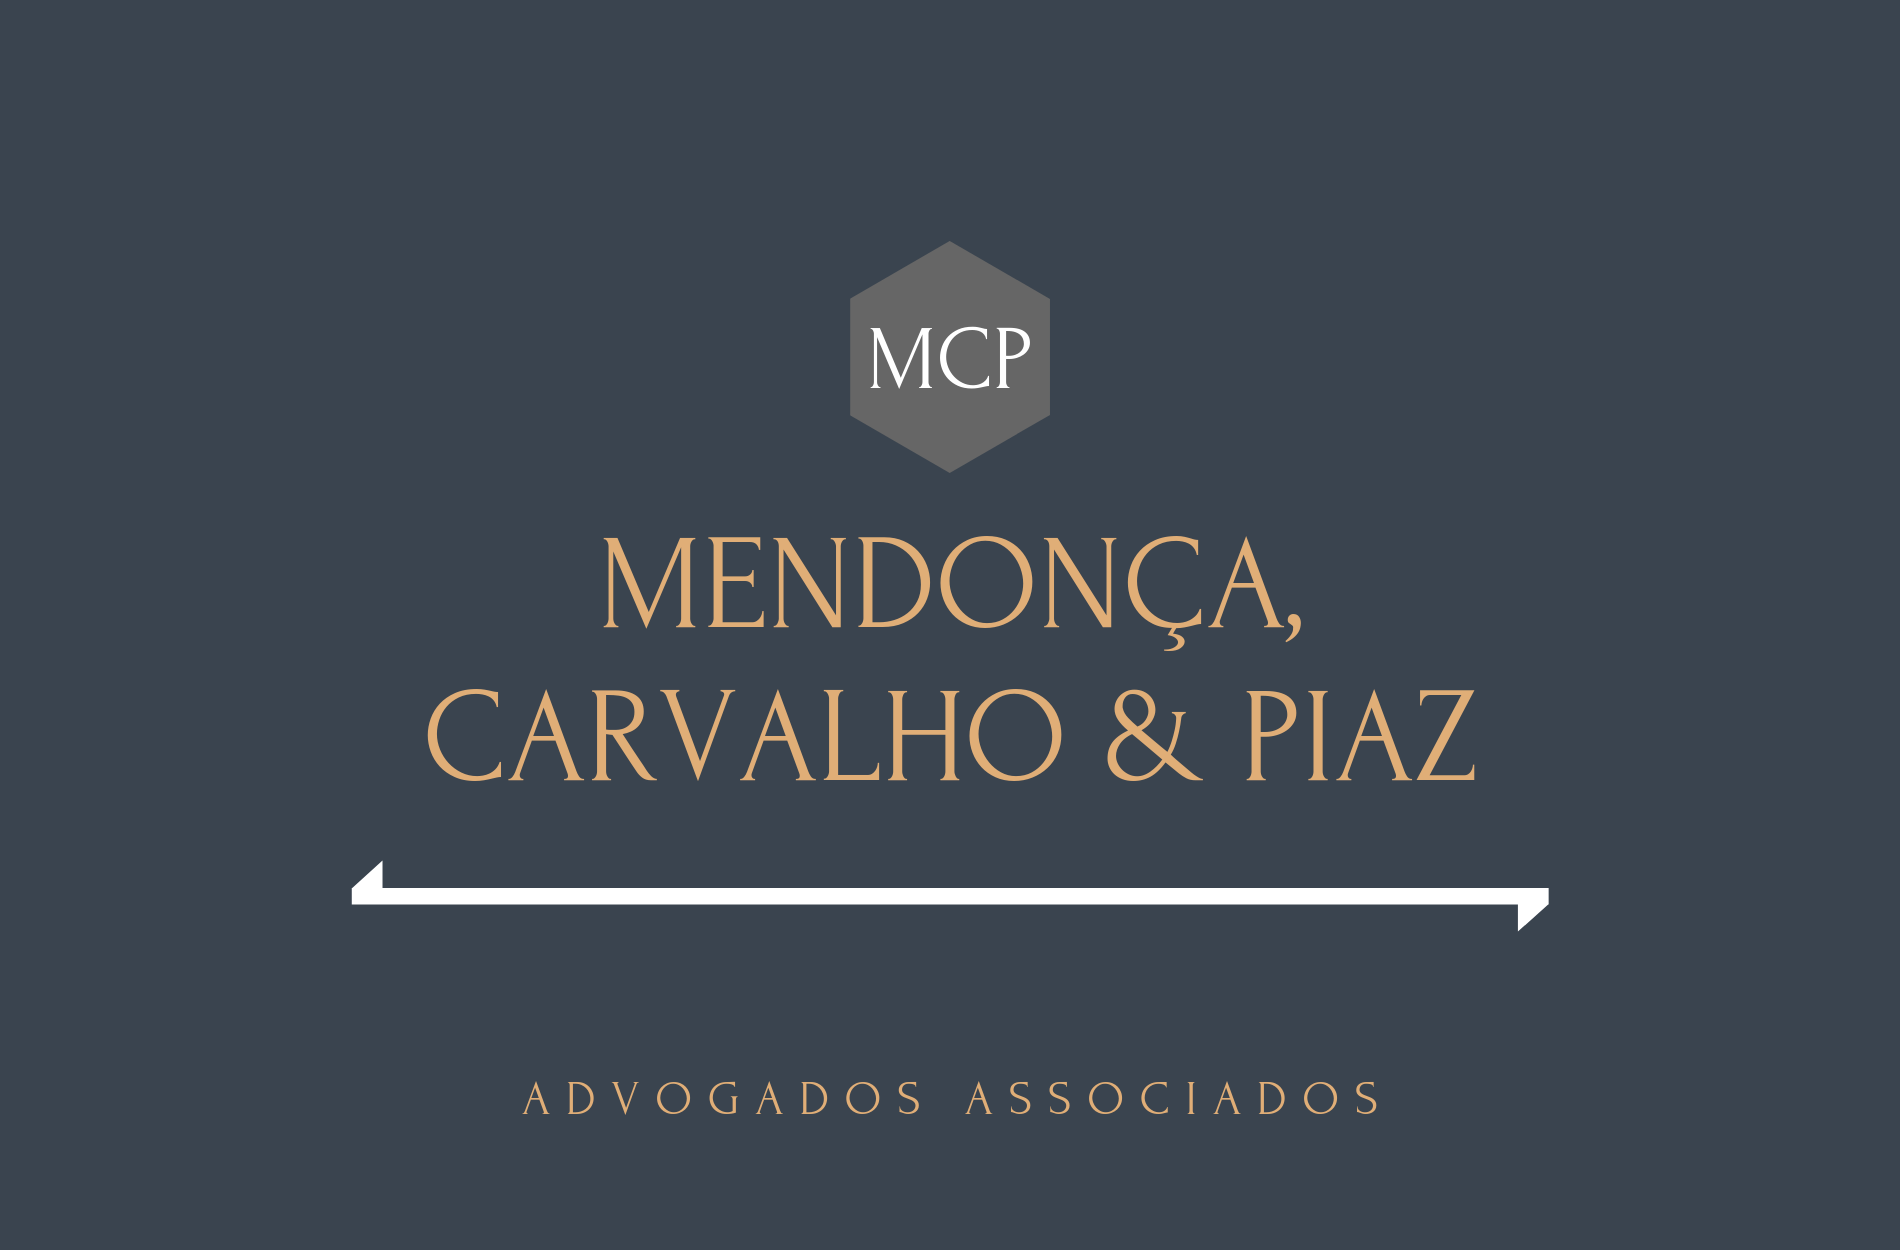
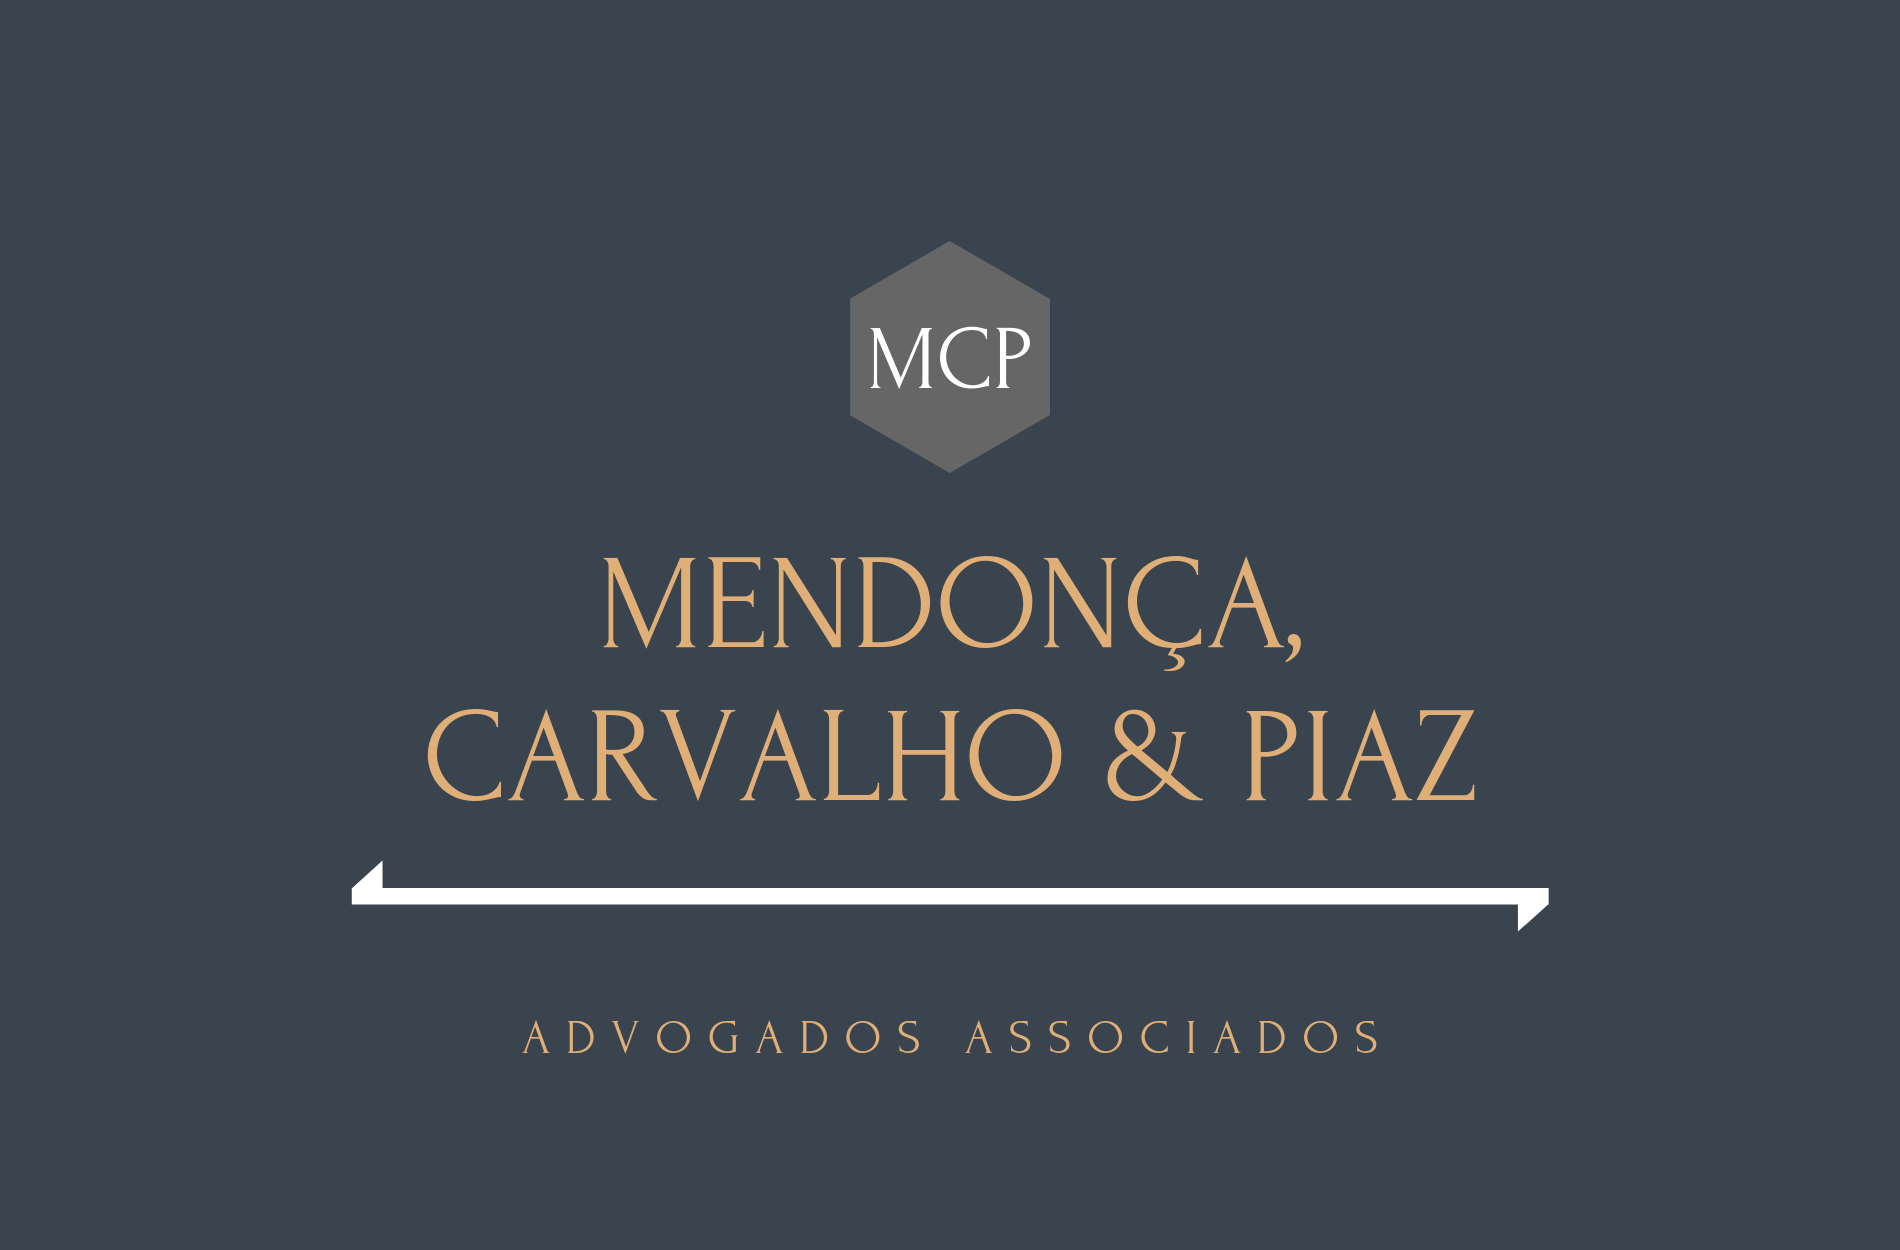
Change header

diff --git a/_includes/contact.html b/_includes/contact.html
@@ -12,28 +12,28 @@
                         <div class="row">
                             <div class="col-md-6">
                                 <div class="control-group form-group">
-                                    <input type="text" class="form-control" placeholder="Your Name *" id="name" required data-validation-required-message="Please enter your name.">
+                                    <input type="text" class="form-control" placeholder="Seu Nome *" id="name" required data-validation-required-message="Por favor digite o seu nome.">
                                     <p class="help-block text-danger"></p>
                                 </div>
                                 <div class="control-group form-group">
-                                    <input type="email" class="form-control" placeholder="Your Email *" id="email" required data-validation-required-message="Please enter your email address.">
+                                    <input type="email" class="form-control" placeholder="Seu email *" id="email" required data-validation-required-message="Por favor digite o seu email.">
                                     <p class="help-block text-danger"></p>
                                 </div>
                                 <div class="control-group form-group">
-                                    <input type="tel" class="form-control" placeholder="Your Phone *" id="phone" required data-validation-required-message="Please enter your phone number.">
+                                    <input type="tel" class="form-control" placeholder="Seu telefone *" id="phone" required data-validation-required-message="Por favor digite o seu telefone.">
                                     <p class="help-block text-danger"></p>
                                 </div>
                             </div>
                             <div class="col-md-6">
                                 <div class="control-group form-group">
-                                    <textarea class="form-control" placeholder="Your Message *" id="message" required data-validation-required-message="Please enter a message."></textarea>
+                                    <textarea class="form-control" placeholder="Sua Mensagem *" id="message" required data-validation-required-message="Por favor digite a sua mensagem."></textarea>
                                     <p class="help-block text-danger"></p>
                                 </div>
                             </div>
                             <div class="clearfix"></div>
                             <div class="col-lg-12 text-center">
                                 <div id="success"></div>
-                                <button type="submit" class="btn btn-xl">Send Message</button>
+                                <button type="submit" class="btn btn-xl">Enviar</button>
                             </div>
                         </div>
                     </form>

diff --git a/_includes/header.html b/_includes/header.html
@@ -46,7 +46,7 @@
             <div class="intro-text">
                 <!-- <div class="intro-lead-in">Welcome To Our Studio!</div>
                 <div class="intro-heading">It's Nice To Meet You</div> -->
-                <a href="#services" class="page-scroll btn btn-xl">Tell Me More</a>
+                <!-- <a href="#services" class="page-scroll btn btn-xl">Tell Me More</a> -->
             </div>
         </div>
     </header>

diff --git a/_includes/css/agency.css b/_includes/css/agency.css
@@ -276,6 +276,7 @@ header {
     -moz-background-size: cover;
     background-size: cover;
     -o-background-size: cover;
+    padding-bottom: 200px;
 }
 
 header .intro-text {
